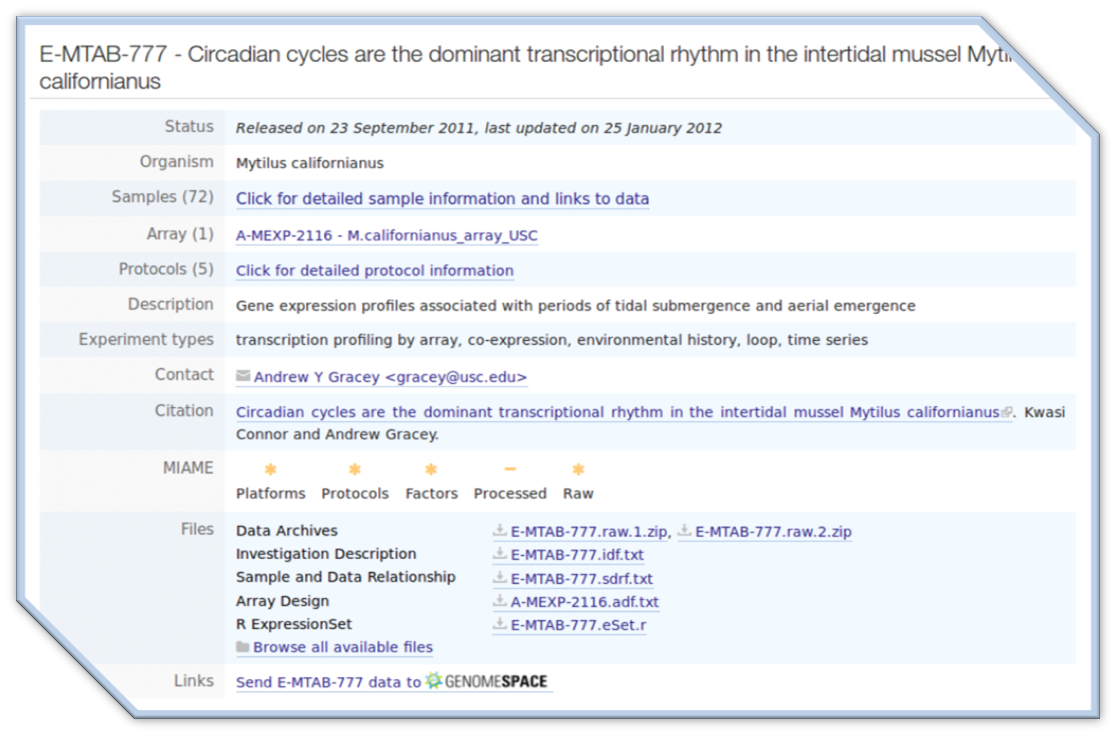
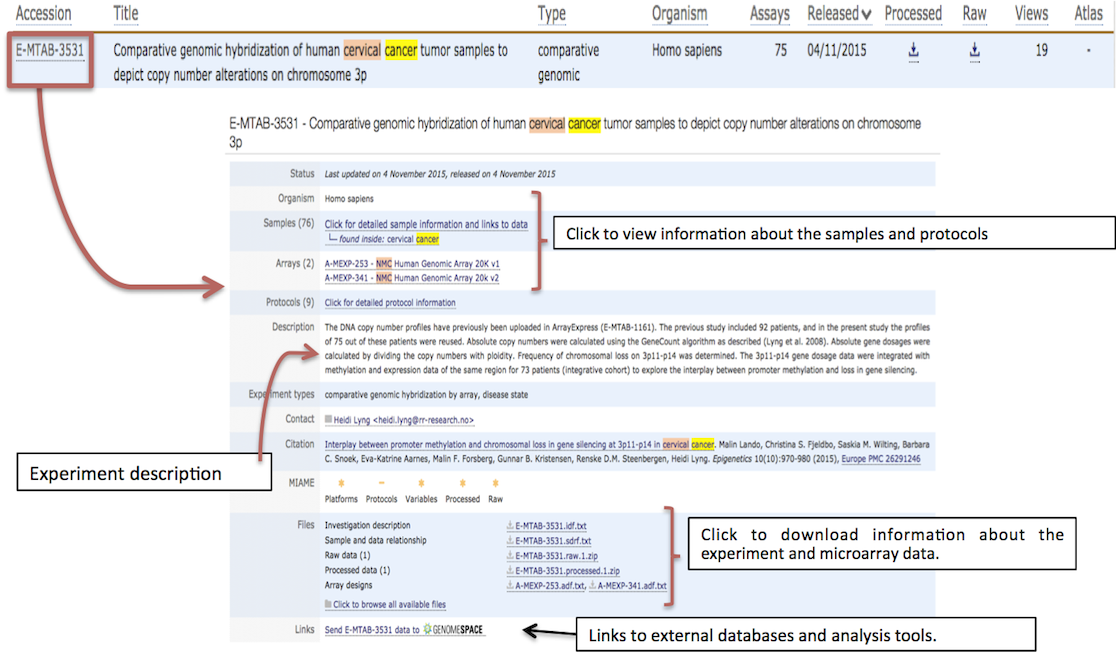
updated quick start

Changed region(s): [[0.0, 0.0, 1.0, 1.0]]

diff --git a/webapp/src/main/webapp/WEB-INF/server-assets/pages/help/quick_start.html b/webapp/src/main/webapp/WEB-INF/server-assets/pages/help/quick_start.html
@@ -6,44 +6,52 @@
         <section id="ae-help" class="grid_18 alpha">
             <h2>Quick Start guide</h2>
             <ol>
+                <li><a href="#BrowsingandSearching">Browsing and searching</a></li>
                 <li><a href="#SearchResultsTable">Experiments table</a></li>
                 <li><a href="#SingleExptView">Single experiment overview</a></li>
                 <li><a href="#SamplesTable">Samples table</a></li>
                 <li><a href="#FilesForDownload">Files for download</a></li>
-                <li><a href="#BamFilesEnsembl">BAM files for RNA-seq experiments</a></li>
+                <li><a href="#Submittingdata">Submitting data</a></li>
                 <li><a href="#MoreHelp">More help</a></li>
             </ol>
             <br>
-            <p><span class='icon icon-generic' data-icon='l'></span><i>Under each topic, click on the screenshot or <span class='icon icon-generic' data-icon='?'></span>help link to get bite-size guide in EBI Train Online tutorials (will open in a new browser window or tab).</i></p>
+            <p><span class='icon icon-generic' data-icon='l'></span><i><b><font size="4" color="black">Under each topic, click on the <span class='icon icon-generic' data-icon='?'></span>learn more link to get a bite-size guide from our EBI Train Online tutorial (will open in a new browser window or tab).</font></b></i></p>
             <p>&nbsp;</p>
-            <h3><a id="SearchResultsTable">1. Experiments table</a></h3>
-            <p>This is the table of experiments you'll see when you go to the ArrayExpress <a href="/arrayexpress/experiments/browse.html">Experiments</a> tab, one row per experiment. The experiments displayed depend on search terms you've entered or filters you've selected.</p>
-            <p><a href="/training/online/course/arrayexpress-exploring-functional-genomics-data-ar/how-search-archive" target="_blank" class='icon icon-generic' data-icon='?'><strong>Tour the experiments table in section 2 of Train Online tutorial "How to search ArrayExpress"</strong><img src="understand_search_results_table.png" alt="Search results table"></a></p>
+            <h3><a id="BrowsingandSearching">1. Browsing and searching</a></h3>
+            <p>You can view all experiments in ArrayExpress by clicking <a href="/arrayexpress/experiments/browse.html">browse</a> on the homepage. You can search for experiments in ArrayExpress by entering keywords or <a href="/arrayexpress/help/how_to_search.html#AdvancedSearchExperiment"> advanced search terms</a> in the search box.</p>
+            <p><a href="/training/online/course/arrayexpress-discover-functional-genomics-data-qui/how-search-arrayexpress" target="_blank" class='icon icon-generic' data-icon='?'><strong>Learn more about searching ArrayExpress.</strong></a></p>
+            <p><img src="browse_and_search.png" alt="Browse and search" /></p>
             <p style="text-align: right;"><a href="#top" class="linktotop">Top</a></p>
-            <h3><a id="SingleExptView">2. Single experiment overview</a></h3>
-            <p>When you click on an experiment on the <a href="#SearchResultsTable">Experiments table</a>, e.g. <a href="/arrayexpress/experiments/E-MTAB-777">"http://www.ebi.ac.uk/arrayexpress/experiments/E-MTAB-777"</a>, you will come to this page which summarises all the information and data download links for an experiment. There are also links to <a href="www.genomespace.org">GenomeSpace</a> and R ExpressionSet objects.</p>
-            <p><a href="/training/online/course/arrayexpress-exploring-functional-genomics-data-ar/how-search-archive" target="_blank" class='icon icon-generic' data-icon='?'><strong>Discover features of this overview in section 5 of Train Online tutorial "How to search ArrayExpress"</strong><img src="understand_single_expt_overview.png" alt="Single experiment view"></a></p>
+            <h3><a id="SearchResultsTable">2. Experiments table</a></h3>
+            <p>This is the table of experiments you will see when you search or <a href="/arrayexpress/experiments/browse.html">browse</a> ArrayExpress. Each row represents one experiment. The table will change depending on what you search for and the types of filters used.</p>
+            <p><a href="/training/online/course/arrayexpress-discover-functional-genomics-data-qui/how-search-arrayexpress/experiments-overvi" target="_blank" class='icon icon-generic' data-icon='?'><strong>Learn more about the experiments page.</strong></a></p>
+            <p><img src="understand_search_results_table.png" alt="Search results table" /></p>
             <p style="text-align: right;"><a href="#top" class="linktotop">Top</a></p>
-            <h3><a id="SamplesTable">3. Samples table</a></h3>
-            <p>You'll get to this table from the link <i>"Click for detailed sample information and links to data"</i> on the <a href="#SingleExptView">Single experiment overview page</a>, e.g. <a href="/arrayexpress/experiments/E-MTAB-674/samples.html">http://www.ebi.ac.uk/arrayexpress/experiments/E-MTAB-674/samples.html</a>. Here, samples are in rows and sample attributes are in columns. You'll also find direct link to data files for each sample in the last column.</p>
-            <p>To download the full samples table, just use the link at the bottom of the table. The downloaded file is tab-delimited text file, which can be opened in any spreadsheet programme.</p>
-            <p><a href="/training/online/course/arrayexpress-exploring-functional-genomics-data-ar/how-search-archive" target="_blank" class='icon icon-generic' data-icon='?'><strong>See annotated samples table in section 6 of Train Online tutorial "How to search ArrayExpress"</strong><img src="understand_samples_view.png" alt="Experiment samples view"></a></p>
+            <h3><a id="SingleExptView">3. Single experiment overview</a></h3>
+            <p>When you click on an accession number in the <a href="#SearchResultsTable">experiments table</a>, e.g. <a href="/arrayexpress/experiments/E-MTAB-3531">E-MTAB-3531</a>, you will come to this page which summarises all the information about the experiment and provides links to download the data. There are also links to <a href="www.genomespace.org">GenomeSpace</a> and, in some cases, <a href="/gxa/home">Expression Atlas</a>.</p>
+            <p><a href="/training/online/course/arrayexpress-discover-functional-genomics-data-qui/experiment-and-sample-information" target="_blank" class='icon icon-generic' data-icon='?'><strong>Learn more about the single experiment page.</strong></a></p>
+            <p><img src="understand_single_expt_overview.png" alt="Single experiment view" /></p>
             <p style="text-align: right;"><a href="#top" class="linktotop">Top</a></p>
-            <h3><a id="FilesForDownload">4. Files for download</a></h3>
-            <p>On the <a href="#SingleExptView">Single experiment overview page</a>, you can download all files (e.g. sample annotations, raw data files) for the experiment using links in the <i>"Files"</i> section, e.g. <a href="/arrayexpress/experiments/E-MTAB-674/files/">http://www.ebi.ac.uk/arrayexpress/experiments/E-MTAB-674/files/"</a>.</p>
-            <p><a href="/training/online/course/arrayexpress-exploring-functional-genomics-data-ar/how-get-data-archive" target="_blank" class='icon icon-generic' data-icon='?'><strong>Find out more about data files in Train Online tutorial "How to get data from ArrayExpress"</strong><img src="understand_experiment_files.png" alt="Experiment files view"></a></p>
+            <h3><a id="SamplesTable">4. Samples table</a></h3>
+            <p>You'll get to this table from the link <i>"Click for detailed sample information and links to data"</i> on the <a href="#SingleExptView">single experiment overview page</a>, e.g. <a href="/arrayexpress/experiments/E-MTAB-3085/samples.html">the samples page for E-MTAB-3085</a>. Here, samples are in rows and sample attributes are in columns. The experimental variable (i.e. the condition being studied) is highlighted in orange. You'll also find direct links to the data files for each sample in the last column.</p>
+            <p>Use the link at the bottom of the page to download the samples table. This file is a tab-delimited text file which can be opened in any spreadsheet program.</p>
+            <p><a href="/training/online/course/arrayexpress-discover-functional-genomics-data-qui/experiment-and-sample-information/sample-i" target="_blank" class='icon icon-generic' data-icon='?'><strong>Learn more about the samples table.</strong></a></p>
+            <img src="understand_samples_view.png" alt="Experiment samples view" />
             <p style="text-align: right;"><a href="#top" class="linktotop">Top</a></p>
-            <h3><a id="BamFilesEnsembl">5. BAM files for RNA-seq experiments</a></h3>
-            <p>For a subset of RNA-seq experiments in ArrayExpress, e.g. <a href="/arrayexpress/experiments/E-MTAB-822/samples/">https://www.ebi.ac.uk/arrayexpress/experiments/E-MTAB-822/samples/</a>, we created BAM files by processing the experimental raw FASTQ data files with the <a href="http://bioconductor.org/packages/release/bioc/html/ArrayExpressHTS.html">ArrayExpressHTS BioConductor package</a> as part of the <a href="http://europepmc.org/abstract/MED/21233166">RNA-seq data processing pipeline</a>. The BAM files are <a href="arrayexpress/experiments/E-MTAB-822/files">available for download</a> and can also be viewed in <a href="http://www.ensembl.org">Ensembl</a>.</p>
-            <p><a href="/training/online/course/arrayexpress-exploring-functional-genomics-data-ar/when-use-archive-some-examples/high-throug" target="_blank" class='icon icon-generic' data-icon='?'><strong>Find out about the BAM files in Train Online tutorial "High-throughput sequencing" sections 3-4</strong><img src="understand_ensembl_link.png" alt="BAM files in Ensembl Genome Browser"></a></p>
+            <h3><a id="FilesForDownload">5. Downloading files</a></h3>
+            <p>On the <a href="#SingleExptView">single experiment overview page</a>, you can download all files (e.g. sample annotations, raw data files) for the experiment using the links in the <i>"Files"</i> section, e.g. <a href="/arrayexpress/experiments/E-MTAB-3531/files/"> for E-MTAB-3531"</a>. For sequencing experiments the raw data files are stored in the the European Nucleotide Archive (ENA) and can be accessed by following the link at the bottom of <a href="#SingleExptView">the single experiment overview page</a>.</p>
+            <p><a href="/training/online/course/arrayexpress-discover-functional-genomics-data-qui/files-and-download" target="_blank" class='icon icon-generic' data-icon='?'><strong>Learn more about data files.</strong></a></p>
+            <p><img src="understand_experiment_files.png" alt="Experiment files view" /></p>
             <p style="text-align: right;"><a href="#top" class="linktotop">Top</a></p>
-            <h3><a id="MoreHelp">6. More help</a></h3>
+            <h3><a id="Submittingdata">6. Submitting data</a></h3>
+            <p>Functional genomics experiments can be submitted to ArrayExpress using our webform-based tool <a href="/fg/annotare/login/">Annotare</a>.</p>
+            <p>If you are submitting data to us for the first time, you will find guidelines and tips in:<br><br><a href="submissions_overview.html" target="_blank" class='icon icon-generic' data-icon='t'>ArrayExpress experiment or array design submission overview</a><br></p>
+            <p>For a comprehensive guide on how to use Annotare see the <a href="/fg/annotare/help/index.html">Annotare help pages</a>. Alternatively you can  email us <a href="mailto:annotare@ebi.ac.uk">annotare@ebi.ac.uk</a>.</p>
+            <p><img src="submitting_data.png" alt="The Annotare submission tool" /></p>
+            <p style="text-align: right;"><a href="#top" class="linktotop">Top</a></p>
+            <h3><a id="MoreHelp">7. More help</a></h3>
             <p>For a comprehensive guide on using ArrayExpress, please try our free, online tutorial:<br><br>
-                <a href="/training/online/course/arrayexpress-exploring-functional-genomics-data-ar/" target="_blank" class='icon icon-generic' data-icon='t'>Train Online tutorial - ArrayExpress: Exploring functional genomics data with the ArrayExpress</a></p>
-            <p>If you are submitting data to us for the first time, you will find guidelines and tips in:<br><br>
-                <a href="submissions_overview.html" target="_blank" class='icon icon-generic' data-icon='t'>ArrayExpress experiment or array design submission overview</a><br>
-                <a href="/fg/annotare/help/" target="_blank" class='icon icon-generic' data-icon='t'>How to use Annotare webform tool to submit an experiment</a><br>
-                </p>
+                <a href="/training/online/course/arrayexpress-discover-functional-genomics-data-qui" target="_blank" class='icon icon-generic' data-icon='t'>ArrayExpress: Discover functional genomics data quickly and easily.</a></p>
             <p style="text-align: right;"><a href="#top" class="linktotop">Top</a></p>
         </section>
         <aside class="grid_6 omega">
@@ -56,7 +64,7 @@
                 <li><a href="how_to_search_adf.html">Array design search</a></li>
                 <li><a href="how_to_search_private_data.html">Search for private data</a></li>
             </ul>
-        </li>    
+        </li>
         <li><a href="submissions_overview.html">How to submit</a>
             <ul>
                 <li><a href="magetab_spec.html">MAGE-TAB format</a></li>
